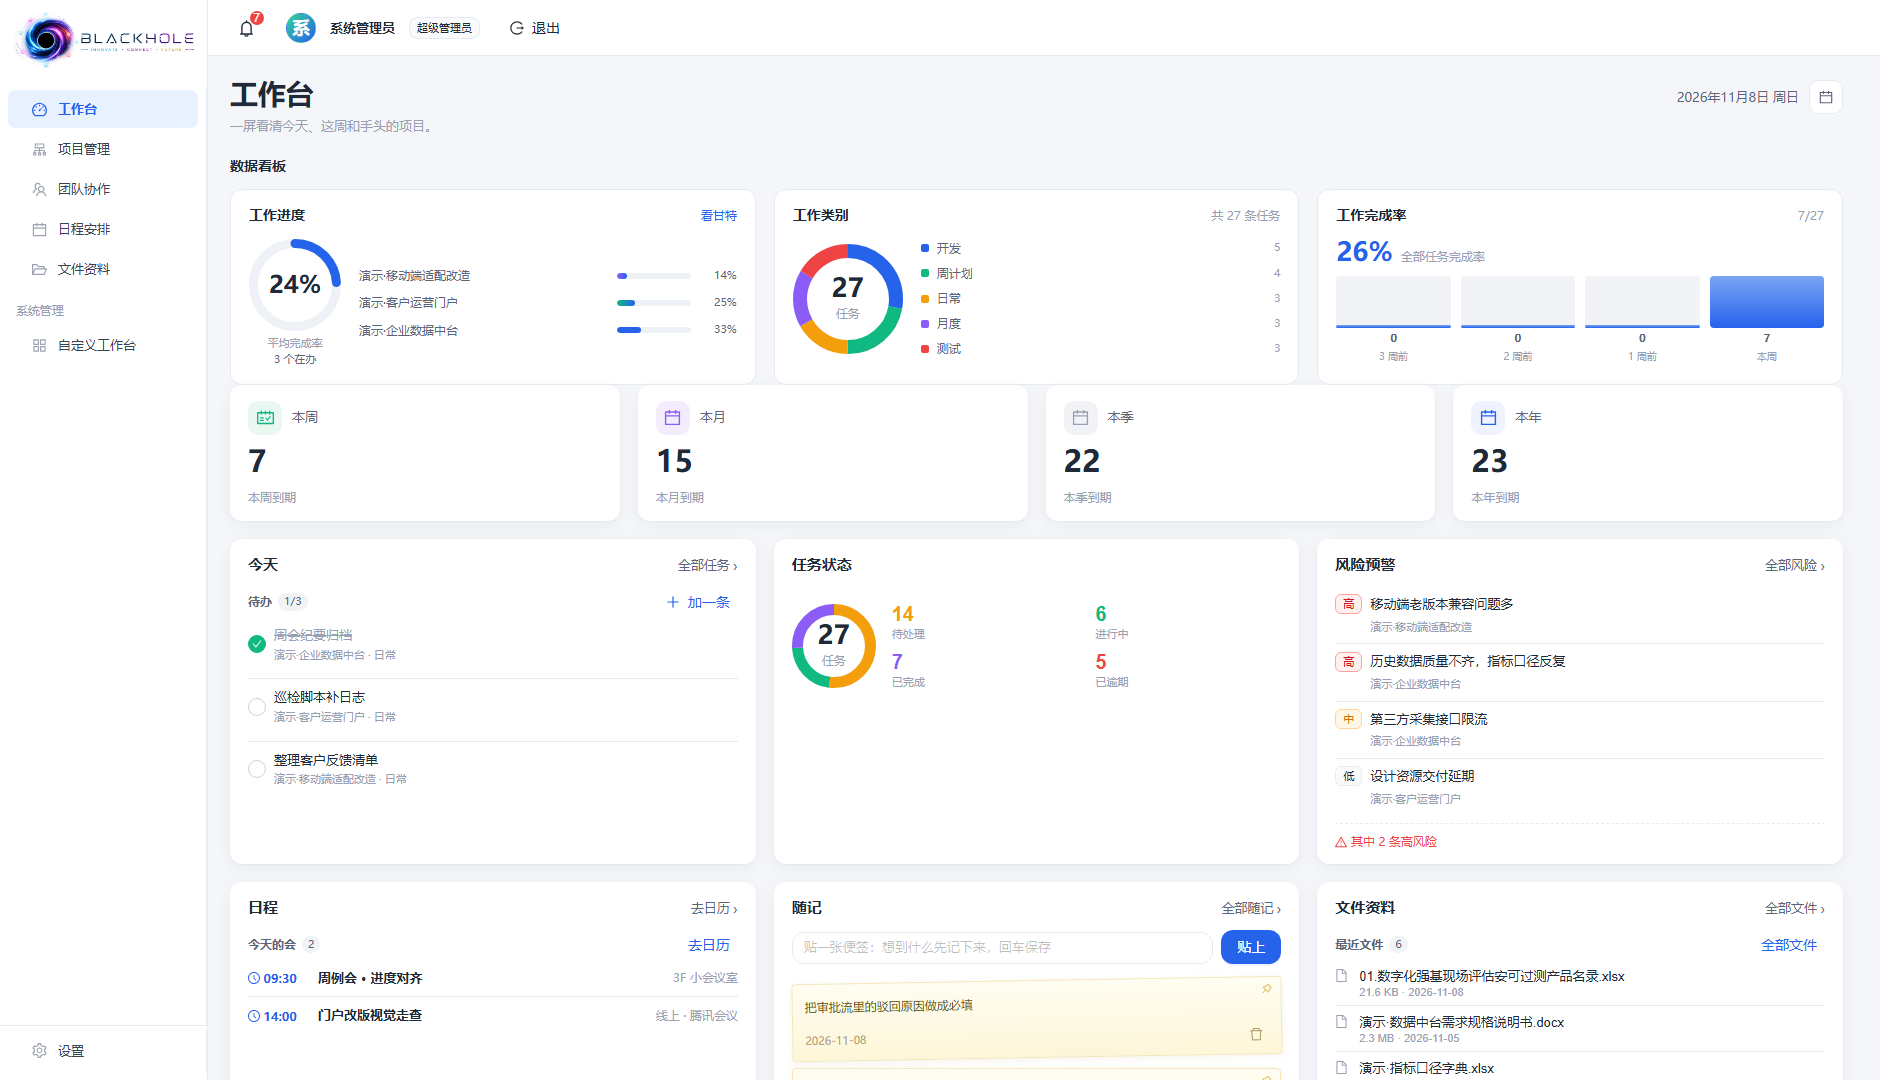
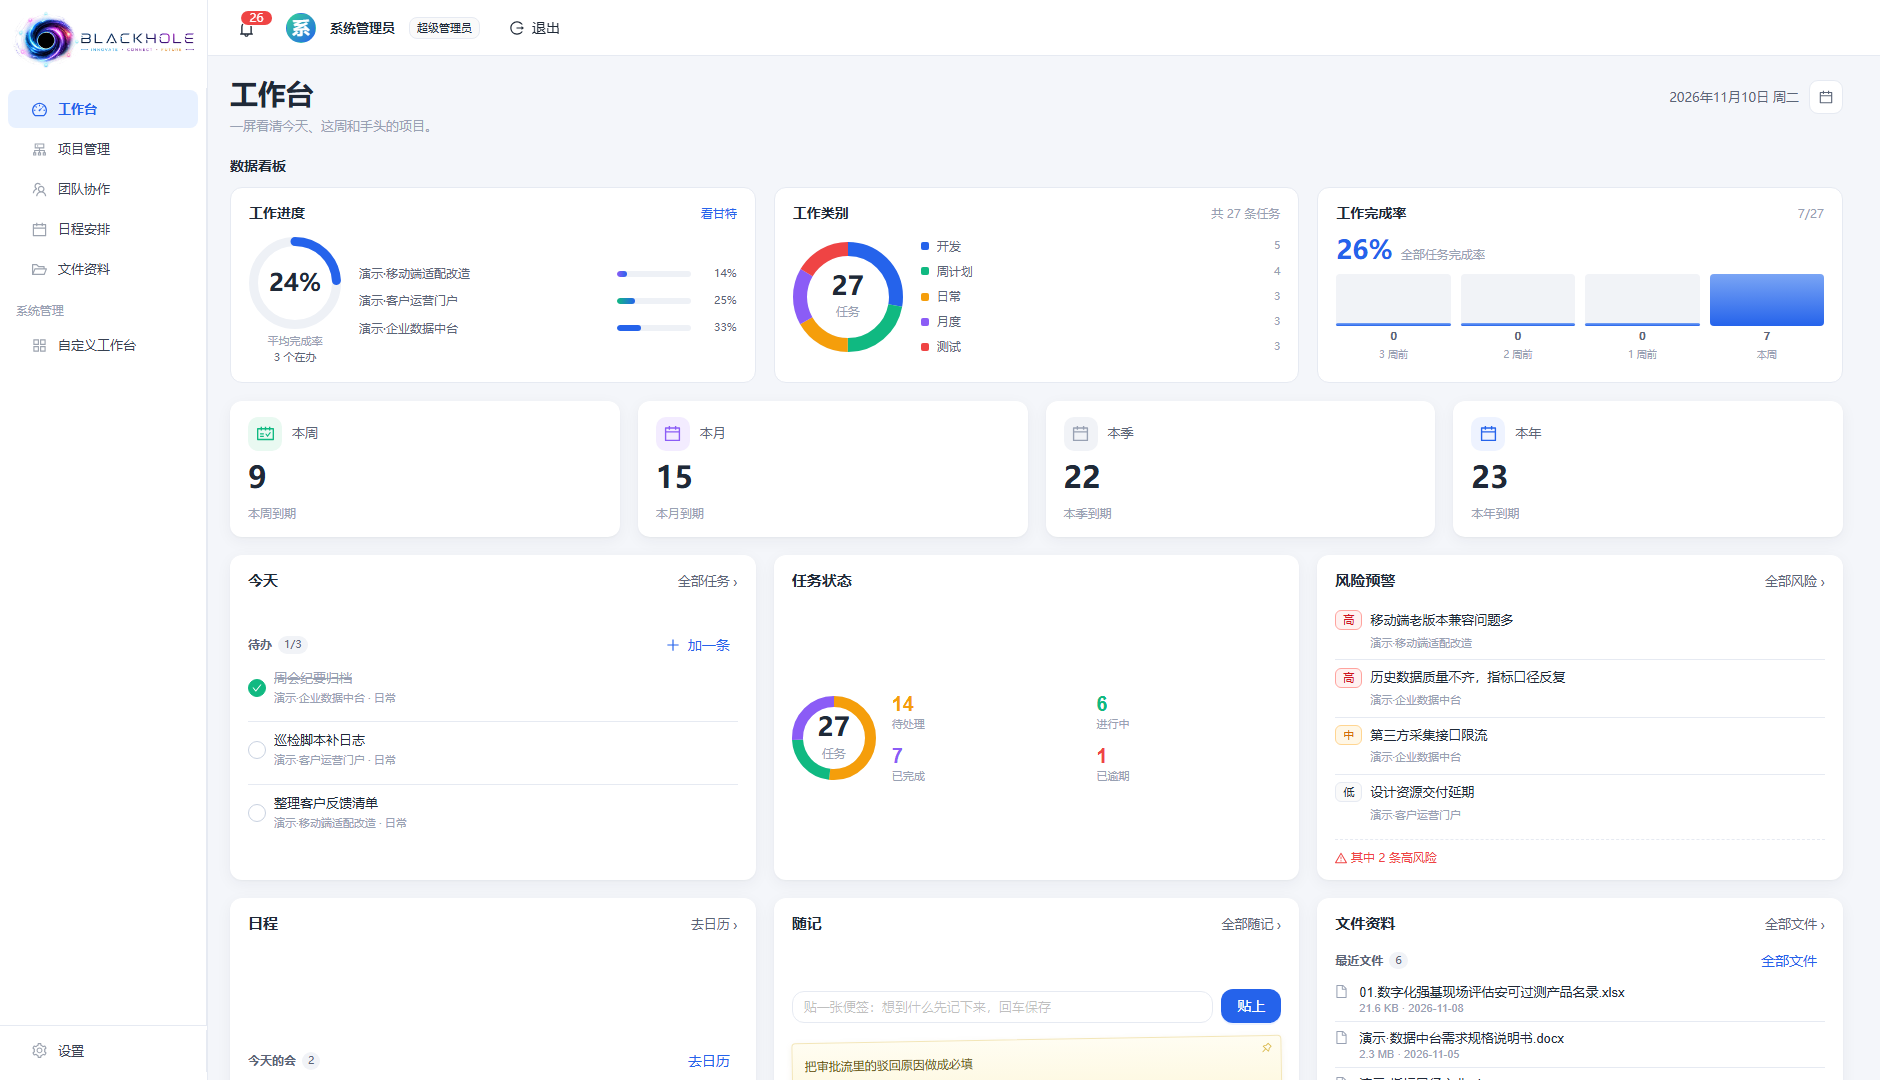
fix(workbench): 统一垂直节奏——修掉看板与四卡之间 0 间距（D-33）
老六说"间距有问题"，没靠眼看：写 probe-spacing.mjs 在真浏览器量 rect。

实测（改前）：页头→看板标题 44（两个 margin 叠加）、标题→看板 12、
看板→四卡 0（贴死）、四卡→网格 18、网格→底部动作 10。

改法：
- .wb-page > .wb-charts 补 18px 下边距（解决 0 间距）
- 看板标题在工作台内 margin: 0 0 10px，不叠页头的 18
- 六个模块内容底部留白统一 16px
- 三列模块内容块内垂直居中（列表型顶对齐），摊掉"任务状态"下方空白
- 四格数字放开限宽，铺满剩余宽度

复测：18 / 10 / 18 / 18 / 18(行) / 12，横向 18，节奏一致。
坑：探针第一版取错选择器（.wb-page-header 不存在，fallback 量到 h1）→ 改 .wb-user-head。
顺带：演示数据周任务挪到周三~周六，避免和"今天"撞车。

diff --git a/apps/web/src/styles/global.css b/apps/web/src/styles/global.css
@@ -3120,3 +3120,61 @@ body {
 
 /* 任务状态四格：两列对齐更紧凑 */
 .wb-status-cells { gap: 6px 18px; }
+
+/* ============ D-33：工作台垂直节奏统一（实测出的 0 间距修掉） ============ */
+
+/* 数据看板与下方时间卡之间必须留 18px —— 实测这里是 0，两块粘在一起 */
+.wb-page > .wb-charts { margin-bottom: 18px; }
+
+/* 看板标题紧跟页头：页头自己已有 18px 下边距，这里不要再叠 22px */
+.wb-page > .wb-dashboard-heading { margin: 0 0 10px; }
+
+/* 四张卡与三列网格之间：指标卡容器本来有 18px 下边距，这里只兜底不叠加 */
+.wb-page > .wb-hb-grid { margin-top: 0; }
+
+/* 六个模块的内容底部留白统一 16px（原来有的是 12、有的是 0，最后一行看着贴边） */
+.wb-hb-4 > section > div > div[style*='padding: 0 18px'] { padding-bottom: 16px !important; }
+
+/* 任务状态的紧凑块与其它模块内容上下留白对齐 */
+.wb-status-compact { padding: 10px 18px 16px; }
+
+/* 便签区最后一张的下边距别顶到面板边 */
+.wb-hb-4 .wb-sticky-wall { margin-bottom: 2px; }
+
+/* 页面底部动作与网格的间距 */
+.wb-page-foot { margin-top: 12px; }
+
+/* 三列模块内容不足整块高度时，垂直居中 —— 否则「任务状态」这类短内容会顶在上面、
+   下方留一大片空（老六上一轮说的"空白太多"就是这个） */
+.wb-hb-4 > section {
+  display: flex;
+  flex-direction: column;
+}
+
+.wb-hb-4 > section > div:last-child {
+  flex: 1;
+  display: flex;
+  flex-direction: column;
+  justify-content: center;
+}
+
+/* 但列表型模块要顶对齐：内容少时贴着标题更自然，居中也行，这里取顶对齐 */
+.wb-hb-4 > section > div:last-child > .wb-today-tasks,
+.wb-hb-4 > section > div:last-child > .wb-today-agenda-block,
+.wb-hb-4 > section > div:last-child > .wb-file-block {
+  justify-content: flex-start;
+}
+
+/* 任务状态：四个数字一行排开，把横向空间用满，纵向不留空 */
+.wb-status-compact {
+  min-height: 150px;
+}
+
+.wb-status-cells {
+  grid-template-columns: repeat(2, minmax(0, 1fr));
+  gap: 10px 24px;
+  max-width: 240px;
+}
+
+/* 四格铺满剩余宽度（上一版限了 240px，右边又空出一片） */
+.wb-status-cells { max-width: none; gap: 10px 20px; }

diff --git a/docs/项目现状.md b/docs/项目现状.md
@@ -132,6 +132,7 @@ SHOT_BASE=https://192.168.102.102 SHOT_INSECURE=1 SEED_ADMIN_PASSWORD=*** \
 | D-24 | 工作台=数据看板+下钻入口（六张时间卡可点）、全站改名、数据统计并入工作台 |
 | D-25 | 工作台演示数据可重复灌（`seed:workbench`）；任务状态补「要注意」；内嵌看板去掉重复环图 |
 | D-26 | 工作台补内容：快捷操作条 + 今日待办（可勾完成）+ 今日日程；任务页「新建任务」接真表单 |
+| D-33 | 工作台垂直节奏统一（实测 0 间距/44px 叠边距）→ 18/10/18/18/12 |
 | D-32 | 工作台定版：看板置顶 + 四时间卡 + 三列六模块（今天/任务状态/风险预警 + 日程/随记/文件资料），添加框并入「今天」 |
 | D-31 | 工作台重排：五卡 + 快速添加 + 「今天」合并 + 风险预警 + 便签墙 + 三块看板；演示数据按年季月周天拆解 |
 | D-30 | 项目成员权限：成员可见项目、名单整表替换、只有归属人/管理员能改 |
